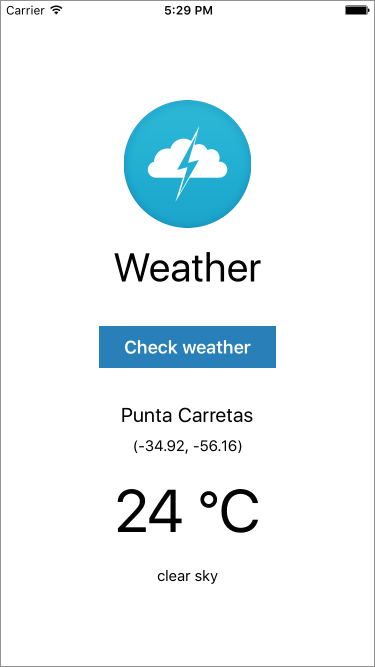
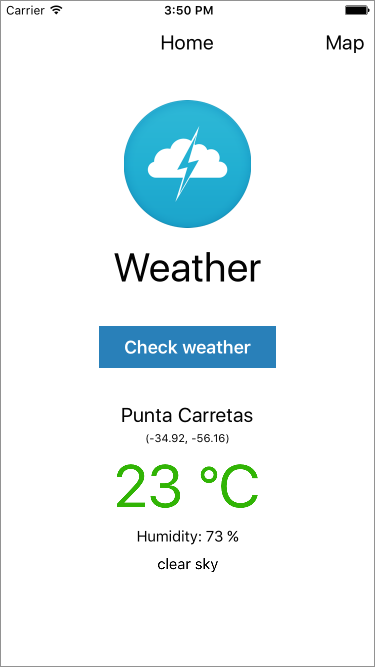
Adds MapView to Weather app

diff --git a/Weather/src/MapScene.js b/Weather/src/MapScene.js
@@ -1,81 +1,64 @@
 import React, {
   Component,
-  Image,
+  MapView,
+  PropTypes,
   View,
-  Text,
   StyleSheet
 } from 'react-native'
 import Details from './Details'
-import Button from './Button'
-import api from './api'
 
 export default class MapScene extends Component {
   constructor (props) {
     super(props)
-    this.coord = {
-      lat: '-34.916226',
-      lon: '-56.159872'
-    }
     this.state = {
-      latlon: '',
-      city: '',
-      temp: '',
-      desc: '',
-      msg: 'Getting weather info...',
-      loading: false
+      pin: {
+        latitude: 0,
+        longitude: 0
+      }
     }
   }
 
-  getWeather () {
-    this.setState({loading: true})
-    api.getWeather(this.coord.lat, this.coord.lon)
-      .then(data => {
-        this.setState({
-          latlon: `(${ data.coord.lat }, ${ data.coord.lon })`,
-          city: data.name,
-          temp: api.kelvinToC(data.main.temp),
-          desc: data.weather[0].description,
-          loading: false
-        })
-        console.log('Weather data', data)
-      })
-      .catch(error => {
-        this.setState({desc: 'Something went wrong :(', loading: false})
-        console.log('Error during the API call', error)
-      })
+  _onRegionChangeComplete (region) {
+    const { latitude, longitude } = region
+    this.setState({ pin: { latitude, longitude } })
+    this.props.onGetWeather(latitude, longitude)
   }
 
   render () {
     return (
       <View style={ styles.wrapper }>
-        <Image source={ require('./weather.png') } style={ styles.image } />
-        <Text style={ styles.title }>Map</Text>
-        <View style={ styles.buttonWrapper }>
-          <Button onPress={ this.getWeather.bind(this) } text='Check weather' />
+        <View style={ styles.wrapperMap }>
+          <MapView
+            annotations={ [this.state.pin] }
+            onRegionChangeComplete={ this._onRegionChangeComplete.bind(this) }
+            style={ styles.map } />
         </View>
-        <Details {...this.state} />
+        <View style={ styles.wrapperMapDetails }>
+          <Details {...this.props} />
+        </View>
       </View>
     )
   }
 }
 
+MapScene.propTypes = {
+  onGetWeather: PropTypes.func
+}
+
 const styles = StyleSheet.create({
   wrapper: {
-    flex: 1,
-    justifyContent: 'flex-start',
+    flex: 1
+  },
+  wrapperMap: {
+    flex: 3,
+    marginTop: 65
+  },
+  map: {
+    flex: 1
+  },
+  wrapperMapDetails: {
+    flex: 2,
+    justifyContent: 'center',
     alignItems: 'center'
-  },
-  buttonWrapper: {
-    margin: 25
-  },
-  image: {
-    height: 128,
-    width: 128,
-    resizeMode: 'contain',
-    marginBottom: 15,
-    marginTop: 100
-  },
-  title: {
-    fontSize: 40
   }
 })

diff --git a/Weather/src/Weather.js b/Weather/src/Weather.js
@@ -21,7 +21,8 @@ export default class Weather extends Component {
       latlon: '',
       city: '',
       temp: '',
-      tempMinMax: '',
+      humidity: '',
+      tempType: '',
       desc: '',
       msg: 'Getting weather info...',
       loading: false
@@ -32,11 +33,13 @@ export default class Weather extends Component {
     this.setState({loading: true})
     api.getWeather(lat, lon)
       .then(data => {
+        const temp = api.kelvinToC(data.main.temp, false)
         this.setState({
           latlon: `(${ data.coord.lat }, ${ data.coord.lon })`,
           city: data.name,
           temp: api.kelvinToC(data.main.temp),
-          tempMinMax: `Min ${ api.kelvinToC(data.main.temp_min) }, Max ${ api.kelvinToC(data.main.temp_max) }`,
+          humidity: `Humidity: ${ data.main.humidity } %`,
+          tempType: (temp >= 30) ? 'hot' : ((temp >= 15) ? 'normal' : 'cold'),
           desc: data.weather[0].description,
           loading: false
         })
@@ -81,7 +84,7 @@ const styles = StyleSheet.create({
   },
   menu: {
     fontSize: 20,
-    padding: 8
+    padding: 10
   }
 })
 
@@ -95,7 +98,7 @@ const NavigationBarRouteMapper = {
     switch (route.name) {
       case 'MapScene':
         return (
-          <TouchableOpacity onPress={() => { navigator.pop() }}>
+          <TouchableOpacity onPress={() => navigator.pop() }>
             <Text style={ styles.menu }>Home</Text>
           </TouchableOpacity>
         )
@@ -107,9 +110,15 @@ const NavigationBarRouteMapper = {
     switch (route.name) {
       case 'HomeScene':
         return (
-          <TouchableOpacity
-            onPress={() => { navigator.push({name: 'MapScene'}) }}>
+          <TouchableOpacity onPress={() => navigator.push({name: 'MapScene'}) }>
             <Text style={ styles.menu }>Map</Text>
+          </TouchableOpacity>
+        )
+      case 'MapScene':
+        // TODO: fix this workaround
+        return (
+          <TouchableOpacity onPress={() => Function.prototype }>
+            <Text style={ styles.menu }>{'           '}</Text>
           </TouchableOpacity>
         )
       default:

diff --git a/Weather/src/Details.js b/Weather/src/Details.js
@@ -4,16 +4,16 @@ import React, {
   Text
 } from 'react-native'
 
-export default ({ city, latlon, temp, desc, msg, loading }) => (
+export default ({ city, latlon, temp, tempType, humidity, desc, msg, loading }) => (
   <View style={ styles.wrapper }>
-    { (loading)
-      ? <Text style={ [styles.loading, styles.text] }>{ msg }</Text>
-      : null
-    }
     <Text style={ styles.city }>{ city }</Text>
     <Text style={ [styles.text, styles.latlon] }>{ latlon }</Text>
-    <Text style={ styles.temp }>{ temp }</Text>
-    <Text style={ styles.text }>{ desc }</Text>
+    <Text style={ [styles.temp, styles[tempType]] }>{ temp }</Text>
+    <Text style={ styles.text }>{ humidity }</Text>
+    { (loading)
+      ? <Text style={ [styles.loading, styles.text] }>{ msg }</Text>
+      : <Text style={ styles.text }>{ desc }</Text>
+    }
   </View>
 )
 
@@ -22,21 +22,30 @@ const styles = StyleSheet.create({
     alignItems: 'center'
   },
   loading: {
+    color: '#D35400',
     fontStyle: 'italic'
   },
   text: {
     fontSize: 15,
-    marginVertical: 10
+    marginVertical: 5
   },
   city: {
     fontSize: 20,
     marginTop: 10
   },
-  temp: {
-    fontSize: 60,
-    marginVertical: 10
-  },
   latlon: {
     fontSize: 11
+  },
+  temp: {
+    fontSize: 60
+  },
+  hot: {
+    color: '#F78181'
+  },
+  normal: {
+    color: '#31B404'
+  },
+  cold: {
+    color: '#58D3F7'
   }
 })

diff --git a/Weather/src/api.js b/Weather/src/api.js
@@ -5,8 +5,10 @@ import config from '../config'
 const BASE_URL = 'http://api.openweathermap.org/data/2.5/'
 
 export default {
-  kelvinToC (kelvin) {
-    return Math.round(kelvin - 273.15) + ' °C'
+  kelvinToC (kelvin, noDegree = true) {
+    const val = Math.round(kelvin - 273.15)
+    if (!noDegree) return val
+    return `${ val } °C`
   },
   getWeather (lat, lon) {
     return fetch(`${ BASE_URL }weather?lat=${ lat }&lon=${ lon }&APPID=${ config.API_KEY }`)

diff --git a/Weather/README.md b/Weather/README.md
@@ -17,3 +17,9 @@ react-native run-ios
 ## Screenshots
 
 ![Screenshot 1](screenshots/screenshot_01.png)
+
+![Screenshot 2](screenshots/screenshot_02.png)
+
+![Screenshot 3](screenshots/screenshot_03.png)
+
+![Screenshot 4](screenshots/screenshot_04.png)
